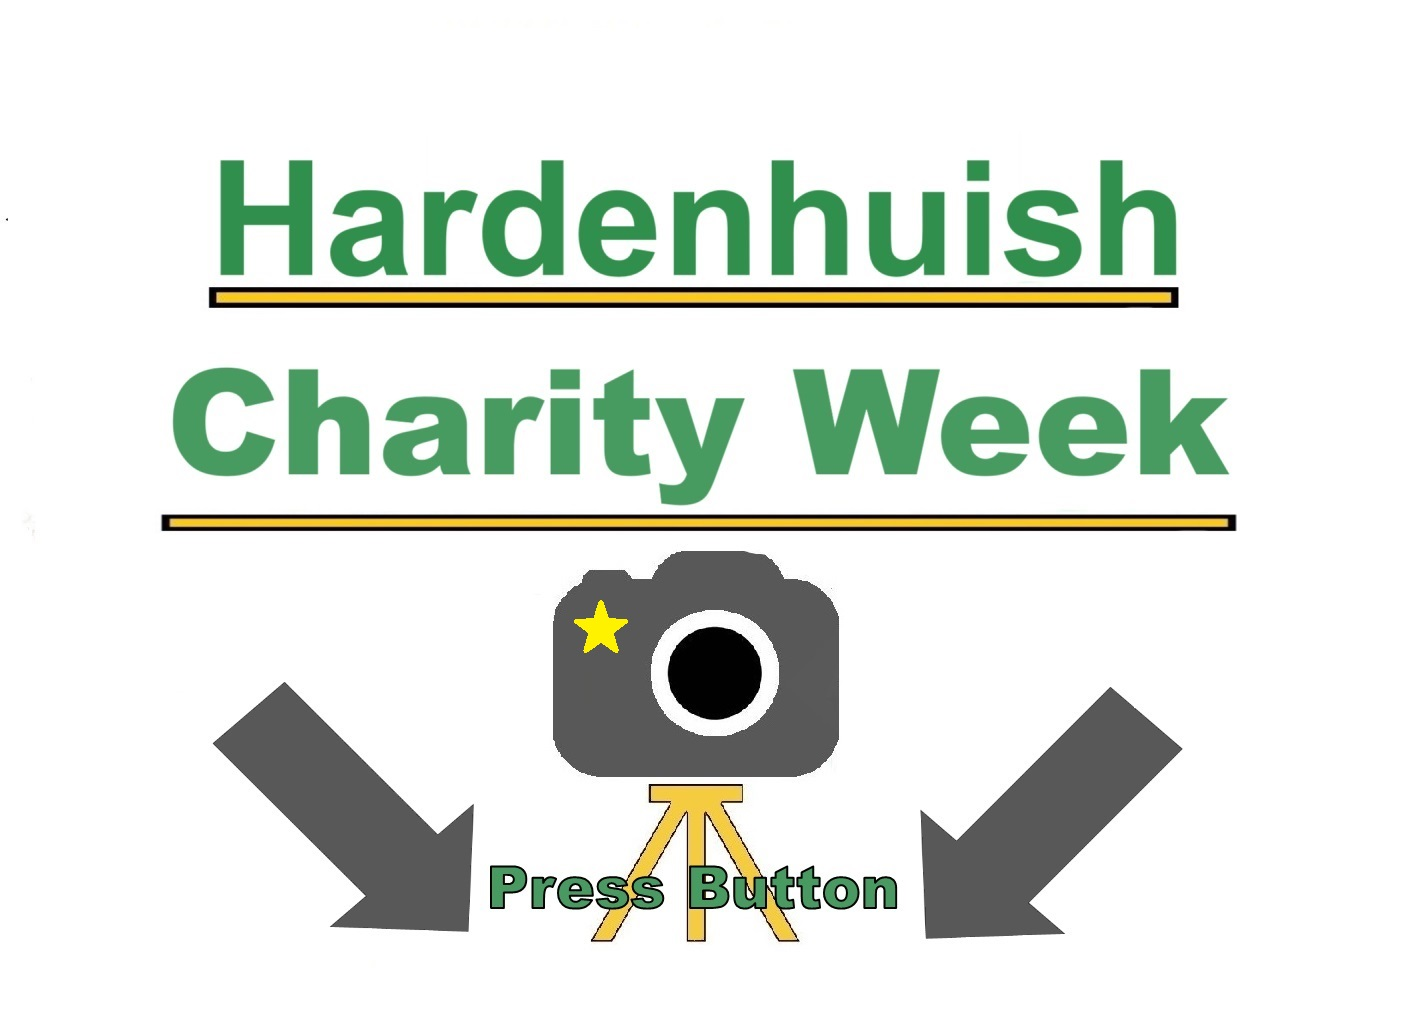
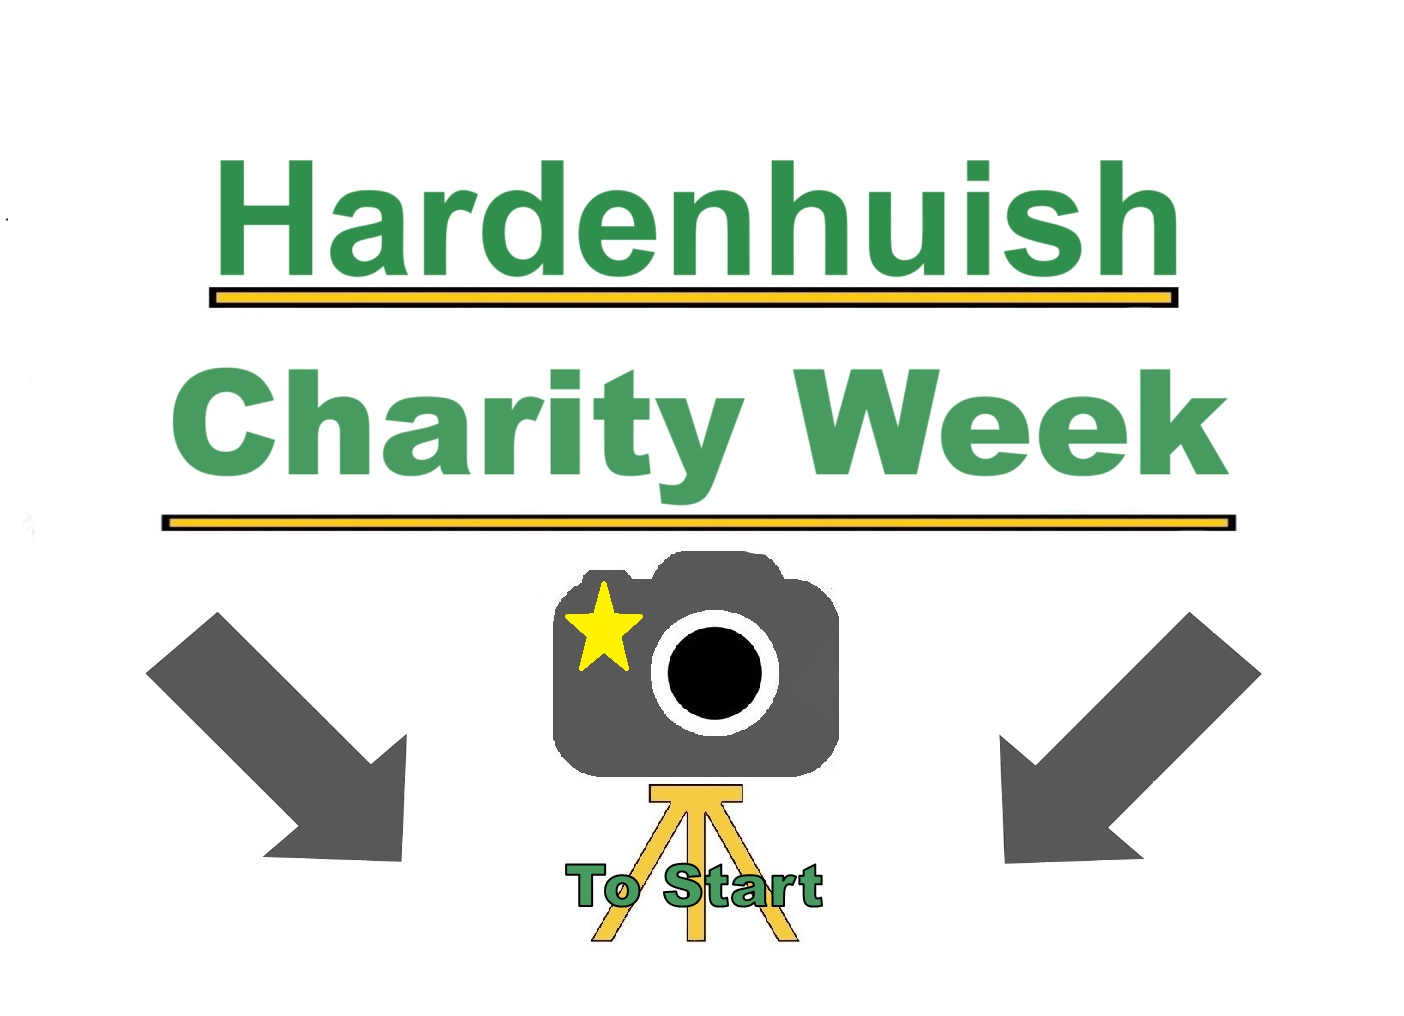
adjust hjarden charity week templates

diff --git a/webcam.py b/webcam.py
@@ -35,10 +35,10 @@ TotalImageCount = 0  # Counter for Display and to monitor paper usage
 imagecounter = 0
 imagefolder = f"/home/pi/Photobooth_Photos/{Venue}"  #os.path.realpath("../Photos")
 templatePath = os.path.join('Template', Venue,"template.png") #Path of template image
-start_cameraPath = os.path.join('Template', Venue,"start_camerap1.jpg") #Path of template image start_camera.jpg
+start_cameraPath1 = os.path.join('Template', Venue,"start_camerap1.jpg") #Path of template image start_camera.jpg
 start_cameraPath2 =  os.path.join('Template', Venue,"start_camerap2.jpg")#
-start_cameraPathpart2 = os.path.join('Template', Venue,"start_camerap3.jpg")
-start_cameraPath2part2 =  os.path.join('Template', Venue,"start_camerap4.jpg")#
+start_cameraPath3 = os.path.join('Template', Venue,"start_camerap3.jpg")
+start_cameraPath4 =  os.path.join('Template', Venue,"start_camerap4.jpg")#
 ImageShowed = False
 NotPrinting = True
 #BUTTON_PIN = 25
@@ -955,13 +955,13 @@ def WaitForEvent():
         #pf.read()
         input_state = pf.input_pins[1].value #False #windows10 GPIO.input(BUTTON_PIN)
         if i%7 == 0:
-            show_image(start_cameraPath)
+            show_image(start_cameraPath1)
         if i%7 ==2:
-            show_image(start_cameraPathpart2)
-        if i %7 == 4:
             show_image(start_cameraPath2)
+        if i %7 == 4:
+            show_image(start_cameraPath3)
         if i%7==6:
-            show_image(start_cameraPath2part2)
+            show_image(start_cameraPath4)
         if input_state==1: #was TRUE
             print("NoEvent is True")
             print(input_state)
